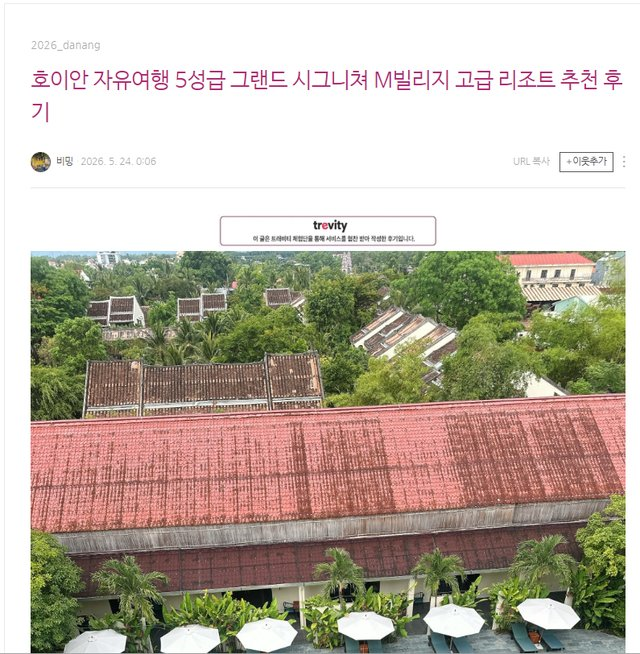
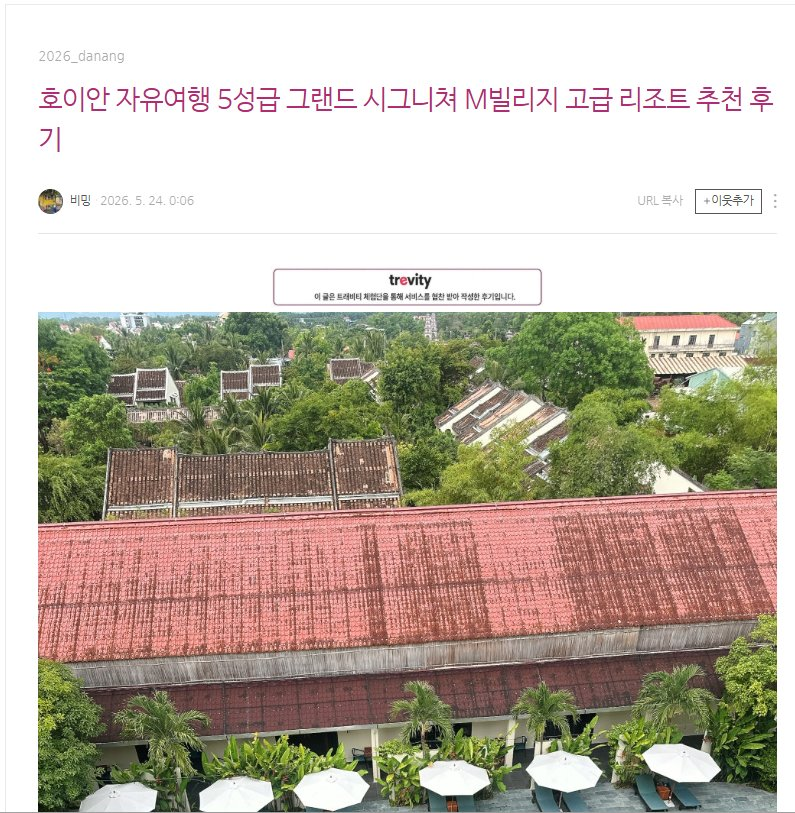
stay: 히어로 벽 원본 비율 유지 (폭 자동 + aspect-ratio 예약)

diff --git a/stay.html b/stay.html
@@ -121,7 +121,7 @@ img[src*="request-form"],img[src*="recommendation-list"],img[src*="price-search-
 @media all and (max-width:1539px){.tvhero2::before{width:calc(100% - 14px);height:315px;left:auto;right:0;transform:none}.tvhero2-tit{padding-top:217px;font-size:80px}.tvhero2-sub{font-size:18px;margin-top:11px}}
 @media all and (max-width:1199px){.tvhero2::before{height:161px;border-radius:0 0 0 105px}.tvhero2-tit{padding-top:95px;font-size:52px}}
 @media all and (max-width:767px){.tvhero2::before{height:112px;border-radius:0 0 0 70px}.tvhero2-tit{padding-top:83px;font-size:29px}.tvhero2-sub{font-size:14px}.tvhero2-cta{display:grid;grid-template-columns:1fr 1fr;gap:8px}}
-</style><div class="tvhero2-wrap"><h1 class="tvhero2-tit">Stay Review</h1><p class="tvhero2-sub">비어 있던 객실이 우리 숙소를 알리는 콘텐츠가 됩니다<br><span class="g">주중·비수기 객실을 체험단에게 제공하고, 실제 숙박 경험이 담긴 체험단 후기를 만들어보세요.</span></p><div class="tvhero2-cta"><a class="mn:flex-none min-w-0" href="./inquiry.html?svc=stay"><button type="button" class="transition-colors duration-200 bg-red-500 text-white disabled:text-gray-200 disabled:bg-gray-50 disabled:opacity-100 hover:opacity-80 rounded-[8px] text-[16px] font-[500] mn:h-[56px] mn:w-[160px] mn:px-[16px] h-[48px] w-full px-[12px]">무료 상담 받기</button></a></div></div></div><div class="w-full"><div class="custom-linear-swiper relative w-full"><div class="swiper swiper-initialized swiper-horizontal w-full"><div class="swiper-wrapper" data-pf-hero style="transition-duration: 0ms; transition-delay: 0ms; transform: translate3d(-298px, 0px, 0px);"><div class="swiper-slide mn:!w-[256px] !w-[128px]" style="margin-right:10px"><div class="mn:rounded-[16px] overflow-hidden rounded-[8px]"><div class="size-full"><img loading="lazy" src="./assets/pfstay/s01.jpg" alt="숙박 체험단 리뷰 콘텐츠" class="h-[220px] w-[128px] object-cover mn:h-[440px] mn:w-[256px]" style="background:#fff"/></div></div></div><div class="swiper-slide mn:!w-[256px] !w-[128px]" style="margin-right:10px"><div class="mn:rounded-[16px] overflow-hidden rounded-[8px]"><div class="size-full"><img loading="lazy" src="./assets/pfstay/s02.jpg" alt="숙박 체험단 리뷰 콘텐츠" class="h-[220px] w-[128px] object-cover mn:h-[440px] mn:w-[256px]" style="background:#fff"/></div></div></div><div class="swiper-slide mn:!w-[256px] !w-[128px]" style="margin-right:10px"><div class="mn:rounded-[16px] overflow-hidden rounded-[8px]"><div class="size-full"><img loading="lazy" src="./assets/pfstay/s03.jpg" alt="숙박 체험단 리뷰 콘텐츠" class="h-[220px] w-[128px] object-cover mn:h-[440px] mn:w-[256px]" style="background:#fff"/></div></div></div><div class="swiper-slide mn:!w-[256px] !w-[128px]" style="margin-right:10px"><div class="mn:rounded-[16px] overflow-hidden rounded-[8px]"><div class="size-full"><img loading="lazy" src="./assets/pfstay/s04.jpg" alt="숙박 체험단 리뷰 콘텐츠" class="h-[220px] w-[128px] object-cover mn:h-[440px] mn:w-[256px]" style="background:#fff"/></div></div></div><div class="swiper-slide mn:!w-[256px] !w-[128px]" style="margin-right:10px"><div class="mn:rounded-[16px] overflow-hidden rounded-[8px]"><div class="size-full"><img loading="lazy" src="./assets/pfstay/s05.jpg" alt="숙박 체험단 리뷰 콘텐츠" class="h-[220px] w-[128px] object-cover mn:h-[440px] mn:w-[256px]" style="background:#fff"/></div></div></div><div class="swiper-slide mn:!w-[256px] !w-[128px]" style="margin-right:10px"><div class="mn:rounded-[16px] overflow-hidden rounded-[8px]"><div class="size-full"><img loading="lazy" src="./assets/pfstay/s01.jpg" alt="숙박 체험단 리뷰 콘텐츠" class="h-[220px] w-[128px] object-cover mn:h-[440px] mn:w-[256px]" style="background:#fff"/></div></div></div><div class="swiper-slide mn:!w-[256px] !w-[128px]" style="margin-right:10px"><div class="mn:rounded-[16px] overflow-hidden rounded-[8px]"><div class="size-full"><img loading="lazy" src="./assets/pfstay/s02.jpg" alt="숙박 체험단 리뷰 콘텐츠" class="h-[220px] w-[128px] object-cover mn:h-[440px] mn:w-[256px]" style="background:#fff"/></div></div></div><div class="swiper-slide mn:!w-[256px] !w-[128px]" style="margin-right:10px"><div class="mn:rounded-[16px] overflow-hidden rounded-[8px]"><div class="size-full"><img loading="lazy" src="./assets/pfstay/s03.jpg" alt="숙박 체험단 리뷰 콘텐츠" class="h-[220px] w-[128px] object-cover mn:h-[440px] mn:w-[256px]" style="background:#fff"/></div></div></div><div class="swiper-slide mn:!w-[256px] !w-[128px]" style="margin-right:10px"><div class="mn:rounded-[16px] overflow-hidden rounded-[8px]"><div class="size-full"><img loading="lazy" src="./assets/pfstay/s04.jpg" alt="숙박 체험단 리뷰 콘텐츠" class="h-[220px] w-[128px] object-cover mn:h-[440px] mn:w-[256px]" style="background:#fff"/></div></div></div><div class="swiper-slide mn:!w-[256px] !w-[128px]" style="margin-right:10px"><div class="mn:rounded-[16px] overflow-hidden rounded-[8px]"><div class="size-full"><img loading="lazy" src="./assets/pfstay/s05.jpg" alt="숙박 체험단 리뷰 콘텐츠" class="h-[220px] w-[128px] object-cover mn:h-[440px] mn:w-[256px]" style="background:#fff"/></div></div></div><div class="swiper-slide mn:!w-[256px] !w-[128px]" style="margin-right:10px"><div class="mn:rounded-[16px] overflow-hidden rounded-[8px]"><div class="size-full"><img loading="lazy" src="./assets/pfstay/s01.jpg" alt="숙박 체험단 리뷰 콘텐츠" class="h-[220px] w-[128px] object-cover mn:h-[440px] mn:w-[256px]" style="background:#fff"/></div></div></div><div class="swiper-slide mn:!w-[256px] !w-[128px]" style="margin-right:10px"><div class="mn:rounded-[16px] overflow-hidden rounded-[8px]"><div class="size-full"><img loading="lazy" src="./assets/pfstay/s02.jpg" alt="숙박 체험단 리뷰 콘텐츠" class="h-[220px] w-[128px] object-cover mn:h-[440px] mn:w-[256px]" style="background:#fff"/></div></div></div><div class="swiper-slide mn:!w-[256px] !w-[128px]" style="margin-right:10px"><div class="mn:rounded-[16px] overflow-hidden rounded-[8px]"><div class="size-full"><img loading="lazy" src="./assets/pfstay/s03.jpg" alt="숙박 체험단 리뷰 콘텐츠" class="h-[220px] w-[128px] object-cover mn:h-[440px] mn:w-[256px]" style="background:#fff"/></div></div></div><div class="swiper-slide mn:!w-[256px] !w-[128px]" style="margin-right:10px"><div class="mn:rounded-[16px] overflow-hidden rounded-[8px]"><div class="size-full"><img loading="lazy" src="./assets/pfstay/s04.jpg" alt="숙박 체험단 리뷰 콘텐츠" class="h-[220px] w-[128px] object-cover mn:h-[440px] mn:w-[256px]" style="background:#fff"/></div></div></div><div class="swiper-slide mn:!w-[256px] !w-[128px]" style="margin-right:10px"><div class="mn:rounded-[16px] overflow-hidden rounded-[8px]"><div class="size-full"><img loading="lazy" src="./assets/pfstay/s05.jpg" alt="숙박 체험단 리뷰 콘텐츠" class="h-[220px] w-[128px] object-cover mn:h-[440px] mn:w-[256px]" style="background:#fff"/></div></div></div></div></div></div></div></div></div></section><section class="tvwhy"><style>
+</style><div class="tvhero2-wrap"><h1 class="tvhero2-tit">Stay Review</h1><p class="tvhero2-sub">비어 있던 객실이 우리 숙소를 알리는 콘텐츠가 됩니다<br><span class="g">주중·비수기 객실을 체험단에게 제공하고, 실제 숙박 경험이 담긴 체험단 후기를 만들어보세요.</span></p><div class="tvhero2-cta"><a class="mn:flex-none min-w-0" href="./inquiry.html?svc=stay"><button type="button" class="transition-colors duration-200 bg-red-500 text-white disabled:text-gray-200 disabled:bg-gray-50 disabled:opacity-100 hover:opacity-80 rounded-[8px] text-[16px] font-[500] mn:h-[56px] mn:w-[160px] mn:px-[16px] h-[48px] w-full px-[12px]">무료 상담 받기</button></a></div></div></div><div class="w-full"><div class="custom-linear-swiper relative w-full"><div class="swiper swiper-initialized swiper-horizontal w-full"><div class="swiper-wrapper" data-pf-hero style="transition-duration: 0ms; transition-delay: 0ms; transform: translate3d(-298px, 0px, 0px);"><div class="swiper-slide" style="width:auto;margin-right:10px"><div class="mn:rounded-[16px] overflow-hidden rounded-[8px]"><img loading="lazy" src="./assets/pfstay/s01.jpg" alt="숙박 체험단 리뷰 콘텐츠" class="h-[220px] mn:h-[440px]" style="width:auto;aspect-ratio:611/780;display:block;background:#fff"/></div></div><div class="swiper-slide" style="width:auto;margin-right:10px"><div class="mn:rounded-[16px] overflow-hidden rounded-[8px]"><img loading="lazy" src="./assets/pfstay/s02.jpg" alt="숙박 체험단 리뷰 콘텐츠" class="h-[220px] mn:h-[440px]" style="width:auto;aspect-ratio:490/795;display:block;background:#fff"/></div></div><div class="swiper-slide" style="width:auto;margin-right:10px"><div class="mn:rounded-[16px] overflow-hidden rounded-[8px]"><img loading="lazy" src="./assets/pfstay/s03.jpg" alt="숙박 체험단 리뷰 콘텐츠" class="h-[220px] mn:h-[440px]" style="width:auto;aspect-ratio:620/813;display:block;background:#fff"/></div></div><div class="swiper-slide" style="width:auto;margin-right:10px"><div class="mn:rounded-[16px] overflow-hidden rounded-[8px]"><img loading="lazy" src="./assets/pfstay/s04.jpg" alt="숙박 체험단 리뷰 콘텐츠" class="h-[220px] mn:h-[440px]" style="width:auto;aspect-ratio:795/813;display:block;background:#fff"/></div></div><div class="swiper-slide" style="width:auto;margin-right:10px"><div class="mn:rounded-[16px] overflow-hidden rounded-[8px]"><img loading="lazy" src="./assets/pfstay/s05.jpg" alt="숙박 체험단 리뷰 콘텐츠" class="h-[220px] mn:h-[440px]" style="width:auto;aspect-ratio:766/738;display:block;background:#fff"/></div></div><div class="swiper-slide" style="width:auto;margin-right:10px"><div class="mn:rounded-[16px] overflow-hidden rounded-[8px]"><img loading="lazy" src="./assets/pfstay/s01.jpg" alt="숙박 체험단 리뷰 콘텐츠" class="h-[220px] mn:h-[440px]" style="width:auto;aspect-ratio:611/780;display:block;background:#fff"/></div></div><div class="swiper-slide" style="width:auto;margin-right:10px"><div class="mn:rounded-[16px] overflow-hidden rounded-[8px]"><img loading="lazy" src="./assets/pfstay/s02.jpg" alt="숙박 체험단 리뷰 콘텐츠" class="h-[220px] mn:h-[440px]" style="width:auto;aspect-ratio:490/795;display:block;background:#fff"/></div></div><div class="swiper-slide" style="width:auto;margin-right:10px"><div class="mn:rounded-[16px] overflow-hidden rounded-[8px]"><img loading="lazy" src="./assets/pfstay/s03.jpg" alt="숙박 체험단 리뷰 콘텐츠" class="h-[220px] mn:h-[440px]" style="width:auto;aspect-ratio:620/813;display:block;background:#fff"/></div></div><div class="swiper-slide" style="width:auto;margin-right:10px"><div class="mn:rounded-[16px] overflow-hidden rounded-[8px]"><img loading="lazy" src="./assets/pfstay/s04.jpg" alt="숙박 체험단 리뷰 콘텐츠" class="h-[220px] mn:h-[440px]" style="width:auto;aspect-ratio:795/813;display:block;background:#fff"/></div></div><div class="swiper-slide" style="width:auto;margin-right:10px"><div class="mn:rounded-[16px] overflow-hidden rounded-[8px]"><img loading="lazy" src="./assets/pfstay/s05.jpg" alt="숙박 체험단 리뷰 콘텐츠" class="h-[220px] mn:h-[440px]" style="width:auto;aspect-ratio:766/738;display:block;background:#fff"/></div></div><div class="swiper-slide" style="width:auto;margin-right:10px"><div class="mn:rounded-[16px] overflow-hidden rounded-[8px]"><img loading="lazy" src="./assets/pfstay/s01.jpg" alt="숙박 체험단 리뷰 콘텐츠" class="h-[220px] mn:h-[440px]" style="width:auto;aspect-ratio:611/780;display:block;background:#fff"/></div></div><div class="swiper-slide" style="width:auto;margin-right:10px"><div class="mn:rounded-[16px] overflow-hidden rounded-[8px]"><img loading="lazy" src="./assets/pfstay/s02.jpg" alt="숙박 체험단 리뷰 콘텐츠" class="h-[220px] mn:h-[440px]" style="width:auto;aspect-ratio:490/795;display:block;background:#fff"/></div></div><div class="swiper-slide" style="width:auto;margin-right:10px"><div class="mn:rounded-[16px] overflow-hidden rounded-[8px]"><img loading="lazy" src="./assets/pfstay/s03.jpg" alt="숙박 체험단 리뷰 콘텐츠" class="h-[220px] mn:h-[440px]" style="width:auto;aspect-ratio:620/813;display:block;background:#fff"/></div></div><div class="swiper-slide" style="width:auto;margin-right:10px"><div class="mn:rounded-[16px] overflow-hidden rounded-[8px]"><img loading="lazy" src="./assets/pfstay/s04.jpg" alt="숙박 체험단 리뷰 콘텐츠" class="h-[220px] mn:h-[440px]" style="width:auto;aspect-ratio:795/813;display:block;background:#fff"/></div></div><div class="swiper-slide" style="width:auto;margin-right:10px"><div class="mn:rounded-[16px] overflow-hidden rounded-[8px]"><img loading="lazy" src="./assets/pfstay/s05.jpg" alt="숙박 체험단 리뷰 콘텐츠" class="h-[220px] mn:h-[440px]" style="width:auto;aspect-ratio:766/738;display:block;background:#fff"/></div></div></div></div></div></div></div></div></section><section class="tvwhy"><style>
 .tvwhy{background:#fff5f7;padding:110px 20px;word-break:keep-all}
 .tvwhy-in{max-width:1084px;margin:0 auto;text-align:center}
 .tvwhy-label{display:inline-block;font-size:14px;font-weight:800;letter-spacing:2.5px;color:#fa6781;margin-bottom:18px}
